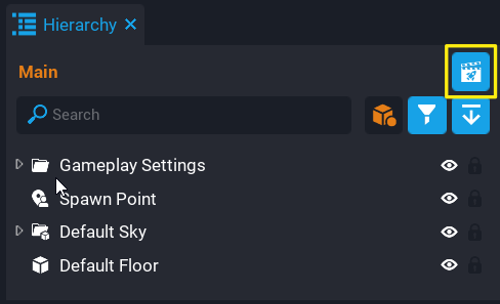
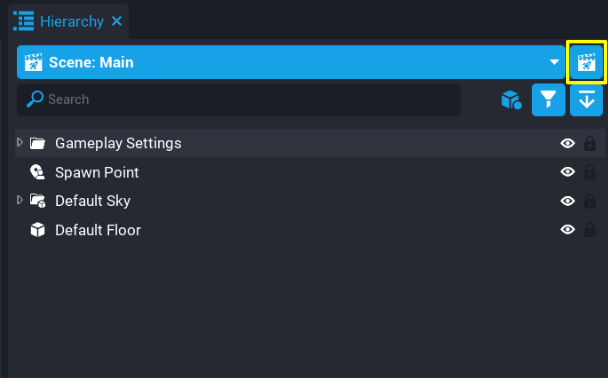
Update Scenes Reference (#952)

diff --git a/src/references/scenes.md b/src/references/scenes.md
@@ -10,13 +10,13 @@ tags:
 
 ## Summary
 
-A **Scene** is a way to have different assets and logic for a specific part of the game. A game can be made up of many scenes (for example main menu, tutorial, different levels) that display different information, and usually there is some way for a **Player** to get from one scene to the other.
+A **Scene** is a way to have different assets and logic for a specific part of the game. Games can have many scenes (for example main menu, tutorial, different levels) that display different information, and usually, there is some way for a **Player** to get from one scene to the other.
 
-All projects come with one scene by default called **Main**, which will be shown in the **Scenes** window as the active scene.
+All projects come with one scene by default called **Main**. This **Main** scene is active by default.
 
 ## Creating a Scene
 
-Creating a **Scene** can be done from the **Scenes** window. Clicking on the **Scenes** button at the top of the **Hierarchy** will open a window that will show a list of all scenes for the project, and a **Create New Scene** button at the bottom of that list.
+Creators can create new scenes from the **Scenes** window. Clicking on the **Scenes** button at the top of the **Hierarchy** will open a window that will show a list of all scenes for the project, and a **Create New Scene** button at the bottom of that list.
 
 ![Scene Button](../img/Scenes/scenes_button.png)
 ![Scene Window](../img/Scenes/scenes_panel.png)
@@ -27,25 +27,25 @@ Creating a **Scene** can be done from the **Scenes** window. Clicking on the **S
 2. Click the **Create New Scene** button at the bottom of the **Scenes** window.
 3. Enter a name for the new scene.
 
-When a new scene has been created, the creator will be asked if they want to load the new scene.
+A newly created scene will give creators the option to choose to load that scene.
 
 !!! info "Limits"
     - Support for up to 64 scenes per project.
-    - Maximum total size of a game is 500mb.
-    - Maximum size of a scene is 100mb.
+    - Maximum total size of a game is 500 Megabytes.
+    - Maximum size of a scene is 100 Megabytes.
 
 ## Loading a Scene
 
-When loading a **Scene**, **Core** will unload all assets in the project **Hierarchy** (that is template instances, script instances, UI), and load all the assets for the scene that will be loaded. When loading a scene, make sure to save the current scene or progress will be lost. **Core** will notify the creator of any unsaved changes when attempting to switch scene.
+When loading a **Scene**, **Core** will unload all assets in the project **Hierarchy** (that is template instances, script instances, UI), and load all the assets for the scene that will be loaded. When loading a scene, make sure to save the current scene or progress will be lost. **Core** will notify the creator of any unsaved changes when attempting to switch scenes.
 
 A **Scene** can be loaded by clicking on the scene name in the **Scene** window.
 
-Another way to load a scene is from the **Scene** options panel.
+There are 2 other ways to load a scene:
 
-1. Click the button to the right of the scene.
-2. Click **Load Scene** from the options menu.
-
-![!Loading Scene](../img/Scenes/option_load_scene.png){: .center loading="lazy" }
+![Option Panel](../img/Scenes/option_load_scene.png)
+![Hierarchy Window](../img/Scenes/load_scene_hierarchy.png)
+*Option panel from the Scenes Window (left), Scenes dropdown in the Hierarchy Window (right)*
+{: .image-cluster}
 
 ## Setting Max Players Per Scene
 
@@ -61,13 +61,13 @@ Any scene in the project can be renamed. Scenes can't share the same name as eac
 
 1. Open the **Scenes** window.
 2. Click the button to the right of the scene.
-3. Click **Rename Scene** from the options menu, and set the new name for the scene.
+3. Click **Rename Scene** from the options menu and set the new name for the scene.
 
 ![!Renaming a Scene](../img/Scenes/option_rename_scene.png){: .center loading="lazy" }
 
-## Setting a Main Scene
+## Setting the Main Scene
 
-The main scene for a project, is the scene that will be loaded for players by default when entering your game. Any scene created can be set up as the main scene for the project. For example, if there is 2 scenes that have a different theme (that is Christmas vs Summer), it is easy to change which scene is the main one and republish your project. When players load your game, they will load the main scene first.
+The main scene for a project is the scene that will be loaded for players by default when entering your game. Any scene created can be set up as the main scene for the project. For example, if there are 2 scenes that have a different theme (that is Christmas vs Summer), it is easy to change which scene is the main one and republish your project. When players load your game, they will load the main scene first.
 
 1. Open the **Scenes** window.
 2. Click the button to the right of the scene.
@@ -83,7 +83,7 @@ Scenes set to **Main Scene** will also be the first scene loaded when loading yo
 
 Duplicating a scene is a good way to use an existing scene as a base. All assets in the scene being duplicated will be copied over to the new scene. For example, creating a tutorial based on the first level of your game without needing to start a new scene from scratch.
 
-When duplicating a scene, **Core** will name the duplicated scene the same name as the scene being duplicated, but append an index to the end so it is unique. For example, duplicating the scene "Opening Level" will be named "Opening Level_1".
+When duplicating a scene, **Core** will name the duplicated scene the same name as the scene being duplicated but append an index to the end so it is unique. For example, duplicating the scene "Opening Level" will be named "Opening Level_1".
 
 1. Open the **Scenes** window.
 2. Click the button to the right of the scene.
@@ -105,7 +105,7 @@ If a scene is already set to **Include for Publish**, the option will change to 
 
 ## Deleting a Scene
 
-To delete a scene from your project, it can not be currently loaded, or set as the main scene. When deleting a scene, all objects in the **Hierarchy** will be deleted. Objects such as template instances (including script instances) will be deleted from the **Hierarchy**, but not from **Project Content**. This means, any changes to a template that needs to be kept,, should be updated before the scene is deleted.
+To delete a scene from your project, it can not be currently loaded or set as the main scene. When deleting a scene, all objects in the **Hierarchy** will be deleted. Objects such as template instances (including script instances) will be deleted from the **Hierarchy**, but not from **Project Content**. This means, any changes to a template that needs to be kept, should be updated before the scene is deleted.
 
 !!! info "**Core** will confirm if the scene should be deleted."
 
@@ -133,7 +133,7 @@ Click on the **Publish Game** button to bring up the **Game Publishing Settings*
 
 ![!Publish Button](../img/Scenes/publish_button.png){: .center loading="lazy" }
 
-The **Game Publishing Settings** window has a **Scenes** drop down where creators can select which scenes should be included when publishing.
+The **Game Publishing Settings** window has a **Scenes** dropdown where creators can select which scenes should be included when publishing.
 
 !!! info "When publishing any scenes that isn't the main scene, **Core** will only publish the assets used for that scene."
 
@@ -141,7 +141,7 @@ The **Game Publishing Settings** window has a **Scenes** drop down where creator
 
 ## Transferring to a Scene
 
-Transferring players between scenes can be done by calling `TransferToScene`. When calling this function, the scene name must be passed, and must be named exactly as the scene is named.
+Transferring players between scenes can be done by calling `TransferToScene`. When calling this function, the scene name must be passed and must be named exactly as the scene is named.
 
 !!! warning "`TransferToScene` does not work in preview mode or games played locally."
 
@@ -171,7 +171,7 @@ other:TransferToScene(sceneName, {spawnKey = "TutorialArea"})
 
 ## Storage
 
-Any data stored in **Storage** is transferred to the scene being loaded. For example, if a player has inventory data, this means the scene can look at the **Storage** for the player to retrieve that data without needing to use a **Shared Storage Key**.
+Any data stored in **Storage** is transferred to the scene loaded. For example, if a player has inventory data, this means the scene can look at the **Storage** for the player to retrieve that data without needing to use a **Shared Storage Key**.
 
 ## Leaderboards
 
